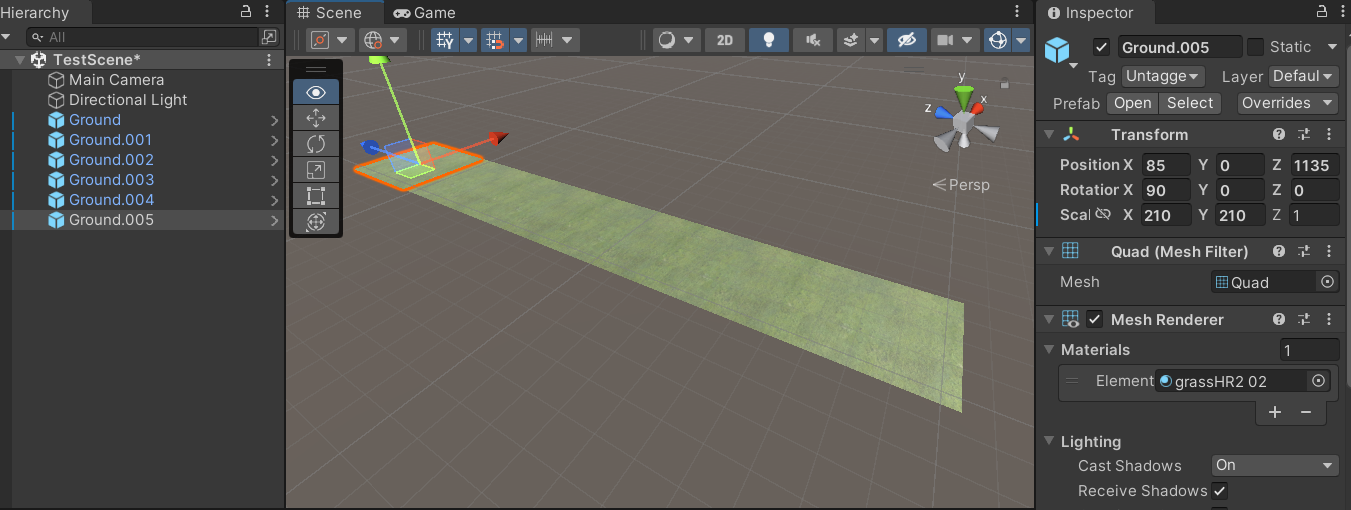
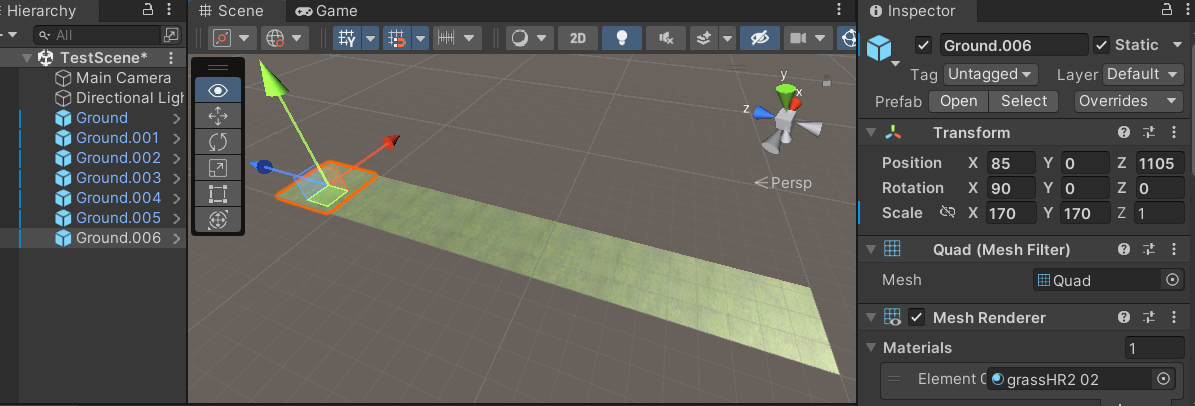
背景モデルをビューにフィットさせる方法を全面的に修正
Unityエディタ側で表示範囲を広げるのではなく、OpenGL側で距離と視野角に応じて拡大表示する.
どちらがより良いかは悩ましい...Unity側で調整するほうが簡単だったかなあ.
しかし、自動的に画面にフィットするところは便利.

diff --git a/doc/OpenGL3D_2022_11.md b/doc/OpenGL3D_2022_11.md
@@ -612,17 +612,15 @@ C#スクリプトを追加すると、Fileメニューの`Export`項目に`GameO
 
 背景画像から受けるスケール感とUnityでの作業しやすさを考慮した結果、今回はタイルサイズを「10x10m」とします。これは「3.2ピクセル=1メートル」ということです。
 
-また、2Dタイルマップの大きさは17x110タイルなので、3Dマップの範囲は170x1100mとなります。ただし、3Dではカメラの視野角を考える必要があります。そこで、前後左右に20m広げて(-20,-20)～(190, 1120)とします。
-
-こうして、今回作成するレベルの定義は次のように決まりました。
+また、2Dタイルマップの大きさは17x110タイルなので、3Dマップの範囲は170x1100mとなります。というわけで、今回作成するレベルの定義は次のように決まりました。
 
 >* タイルサイズ: 10x10m
 >* 縮尺: 3.2ピクセル = 1メートル
->* マップの範囲: (-20,-20)～(190, 1120)
+>* マップサイズ: 170x1100m
 
-それでは、レベルを作っていきましょう。とりあえず、マップ全体を埋める平面を配置します。「GameObject→3D Object→Quad」を選択して、平面のゲームオブジェクトを追加してください。ゲームオブジェクトの名前は`Ground`としてください。
+それではレベルを作っていきましょう。とりあえず、マップ全体を埋める平面を配置します。メニューから「GameObject → 3D Object → Quad」を選択して、平面のゲームオブジェクトを追加してください。
 
-シーンにQuadを配置したら、インスペクターで`Rotation`の`X`に`90`を指定してQuad(クアッド)を水平にしてください。
+シーンにQuad(クアッド)を配置したら、ゲームオブジェクトの名前を`Ground`に変更してください。また、Quadは垂直に配置されます。水平にしたいので、インスペクターで`Rotation`の`X`に`90`を指定してください。
 
 次に、`Dstroyed_city_FREE/Textures`フォルダにある`grassHR2 02.jpg`を、Quadゲームオブジェクトにドラッグ&ドロップしてください。これでQuadにテクスチャが設定されます。
 
@@ -647,29 +645,29 @@ C#スクリプトを追加すると、Fileメニューの`Export`項目に`GameO
 <code>Ground</code>ゲームオブジェクトをOBJファイルに変換し、OpenGLプロジェクトの<code>Res/Model</code>フォルダに保存しなさい。
 </pre>
 
-それでは、`Ground`ゲームオブジェクトをマップに敷き詰めましょう。といっても、最初の大きさのままで敷き詰めるには膨大な枚数が必要になってしまいます。
+それでは、`Ground`ゲームオブジェクトをマップに敷き詰めましょう。といっても、最初の大きさのままで敷き詰めるには膨大な枚数が必要になってしまいます。そこで、少ない枚数で全体をカバーできるように大きさを変更します。
 
-そこで、少ない枚数で全体をカバーできるように大きさを変更します。`Scale`を(210, 210, 1)に設定してください。次に座標を移動します。`Position`を(85, 0, 85)に設定してください。これで1枚目の地面を敷くことができました。
+X軸方向のマップサイズは170なので、`Ground`ゲームオブジェクトの`Scale`を(170, 170, 1)に設定してください。次に、`Position`を(85, 0, 85)に設定してください。これで1枚目の地面を敷くことができました。
 
-拡大率を設定した結果、現在の`Ground`の大きさは210mです。-20～1120の範囲を埋めるにはあと5枚の`Ground`ゲームオブジェクトが必要です。
+しかし、マップは縦長なので、平面が1枚ではまったく足りません。Z軸方向のマップサイズは1100なので。マップ全体を埋めるには合計7枚の`Ground`ゲームオブジェクトが必要です。
 
 `Ground`ゲームオブジェクトを選択し、`Ctrl+D`キーを押してコピーしてください。すると
-`Ground (1)`のようなゲームオブジェクトが追加されます。<br>
-このゲームオブジェクトの`Position`の`Z`に`295`を設定してください。
+`Ground (1)`のようなゲームオブジェクトが追加されます。
 
+次に、このゲームオブジェクトの`Position`を(85, 0, 255)に設定してください。<br>
 これで2枚目の地面を敷くことができました。
 
 <pre class="tnmai_assignment">
 <strong>【課題07】</strong>
-<code>Ground</code>ゲームオブジェクトのコピーをあと4枚作成し、Z方向に隙間なく並べなさい。
+<code>Ground</code>ゲームオブジェクトのコピーをあと5枚作成し、Z方向に隙間なく並べなさい。
 </pre>
 
 <p align="center">
 <img src="images/11_unity_make_ground.png" width="66%" /><br>
-[6枚のGroundを敷き詰めた状態]
+[7枚のGroundを敷き詰めた状態]
 </p>
 
-次に、建物を配置します。`Destroyed_city_FREE/Prefabs`にある`wrak_budova.prefab`をシーンにドラッグ&ドロップしてください。
+続いて建物を配置します。`Destroyed_city_FREE/Prefabs`にある`wrak_budova.prefab`をシーンにドラッグ&ドロップしてください。
 
 <pre class="tnmai_assignment">
 <strong>【課題08】</strong>
@@ -680,21 +678,26 @@ C#スクリプトを追加すると、Fileメニューの`Export`項目に`GameO
 
 建物を増やしたら、`Hierarchy`ウィンドウで16個の`wrak_budova`をすべて選択してください。そして、`Position`と`Rotation`に以下の数式を設定してください。
 
-* Position X: `R(0, 17) * 10`
+* Position X: `R(15, 155)`
 * Position Y: `R(-50, -30)`
-* Position Z: `L(0, 1100)`
+* Position Z: `L(40, 1060)`
 * Rotation X: `R(-10, 10)`
 * Rotation Y: `R(0, 360)`
 * Rotation Z: `R(-10, 10)`
 
-`R()`は「範囲内のランダムな値」を設定する数式、`L()`は「範囲内の等間隔な値」を設定する数式です。これらの数式を利用すると、簡単にランダムな座標や回転を与えることができます。
+`R()`は「範囲内のランダムな値」を設定する数式、`L()`は「範囲内の等間隔な値」を設定する数式です。これらの数式を利用すると、ランダムな(または等間隔の)座標や回転を簡単に設定できます。
 
 <p align="center">
 <img src="images/11_unity_add_buildings.png" width="50%" /><br>
 [建物をランダムに配置した状態]
 </p>
 
-これで建物の配置は完了です(破壊され、人が住まなくなって数十年が経過した廃墟の街、に見えるでしょうか)。このシーンを配置ファイルに出力しましょう。メニューから`GameObject To Json`を選択すると、次のようなウィンドウが表示されます。
+>**【インスペクターで使える数式機能について】**<br>
+>以下のBLOGの2021年12月05日の記事「Unity 2021.2で強化されたインスペクターの数式機能や、複数要素選択時の線形配置機能について」が参考になるでしょう。
+>`https://qiita.com/RyotaMurohoshi`
+
+これで建物の配置は完了です(破壊され、人が住まなくなって数十年が経過した廃墟の街、に見えるでしょうか)。このシーンを配置ファイルに出力しましょう。<br>
+メニューから`GameObject To Json`を選択すると、次のようなウィンドウが表示されます。
 
 <p align="center">
 <img src="images/11_gameobject_to_json_window.png" width="25%" />
@@ -990,22 +993,20 @@ C#スクリプトを追加すると、Fileメニューの`Export`項目に`GameO
 -  renderer->mesh = engine.LoadOBJ("Res/Model/FromUnity/StarSparrow17.obj");
 -  renderer->scale = vec3(20);
 -  renderer->rotation.y = radians(180);
-+  // 背景モデルを読み込む
++  // 3Dモデル配置ファイルを読み込む
 +  auto gameObjectList = engine.LoadGameObjectMap("Res/map01.json",
-+    vec3(0, 0, -200), vec3(3.2f));
++    vec3(0), vec3(3.2f));
 
    // 敵配置データを読み込む
    enemyMap = engine.LoadTileMap("Res/map01_obj.csv");
 ```
 
-背景モデルの拡大率に`3.2f`を指定しているのは、Unityでレベルを作成したとき、タイルサイズは「10x10m」、縮尺は「3.2ピクセル=1メートル」としたからです。これによって、配置データのサイズをゲーム内のサイズと一致させています。
+背景モデルの拡大率に`3.2f`を指定しているのは、縮尺を「3.2ピクセル=1メートル」と決めたからです。これによって、配置データのサイズをゲーム内のサイズと一致させています。
 
-また、自機などの3DモデルはZ座標`0`に配置されます。ここで、背景モデルを同じZ座標に表示すると、自機が背景に埋まってしまいます。そこで、背景モデルが自機より下に表示されるように、Z座標を`-200`しています。
-
-プログラムが書けたらビルドして実行してください。3Dの背景が表示されていたら成功です。
+プログラムが書けたらビルドして実行してください。背景が表示されていたら成功です。
 
 <p align="center">
-<img src="images/11_result_3.jpg" width="45%" />
+<img src="images/11_result_6.jpg" width="45%" />
 </p>
 
 ### 2.6 2Dと3Dの描画順を調整する
@@ -1100,6 +1101,7 @@ C#スクリプトを追加すると、Fileメニューの`Export`項目に`GameO
 次に、背景をスクロールさせます。スクロールさせる方法はいくつか考えられますが、今回は「スクロール座標オブジェクト」を用意し、それを「スクロールコンポーネント」が参照する方法を使うことにします。
 
 最初に「スクロール座標オブジェクト」を用意します。これは単純な`float`値ですが、複数のコンポーネントから参照されることを考慮してスマートポインタにします。
+
 `MainGameScene.h`を開き、次のプログラムを追加してください。
 
 ```diff
@@ -1150,10 +1152,10 @@ C#スクリプトを追加すると、Fileメニューの`Export`項目に`GameO
 他のコードで使う予定がないので、`BgScroll`(ビージー・スクロール)コンポーネントは
 `MainGameScene.cpp`に定義しています。ほかのコードでも使いたくなったら、そのときに専用のヘッダファイルに分離するとよいでしょう。
 
-それでは、スクロール座標オブジェクトを作成し、背景オブジェクトにスクロールコンポーネントを追加しましょう。`Initialize`メンバ関数にある「背景モデルを読み込む」プログラムの下に、次のプログラムを追加してください。
+それでは、スクロール座標オブジェクトを作成し、背景オブジェクトにスクロールコンポーネントを追加しましょう。`Initialize`メンバ関数にある「3Dモデル配置ファイルを読み込む」プログラムの下に、次のプログラムを追加してください。
 
 ```diff
-   // 背景モデルを読み込む
+   // 3Dモデル配置ファイルを読み込む
    auto gameObjectList = engine.LoadGameObjectMap("Res/map01.json",
      vec3(0, 0, -200), vec3(3.2f));
 +
@@ -1198,18 +1200,127 @@ C#スクリプトを追加すると、Fileメニューの`Export`項目に`GameO
 <img src="images/11_result_4.jpg" width="45%" />
 </p>
 
+### 2.8 背景の表示座標を調整する
+
+背景をスクロールさせると、自機や敵が建物に遮られて見づらいことに気づくと思います。これは、背景の座標が自機や敵と近すぎるからです。そこで、背景を少し遠くに配置します。<br>
+3Dモデル配置ファイルを読み込むプログラムを、次のように変更してください。
+
+```diff
+   // 3Dモデル配置ファイルを読み込む
+   auto gameObjectList = engine.LoadGameObjectMap("Res/map01.json",
+-    vec3(0), vec3(3.2f));
++    vec3(0, 0, -300), vec3(3.2f));
+
+   // 敵配置データを読み込む
+   enemyMap = engine.LoadTileMap("Res/map01_obj.csv");
+```
+
+`Destroyed City FREE`アセットの建物の高さは約100mですが、少しだけ地面に埋まるように配置したため、実際の地面から高さは約80mです。縮尺(3.2ピクセル=1メートル)を考慮すると、OpenGLにおける高さは256になります。
+
+そのため、背景をZ軸方向に-300ほど移動させれば、自機や敵と重ならなくなるはずです。
+
+プログラムが書けたらビルドして実行してください。背景が遠くなり、自機や敵が建物の上に表示されていたら成功です。
+
+<p align="center">
+<img src="images/11_result_7.jpg" width="45%" />
+</p>
+
+自機や敵が建物に重なることはなくなりましたが、背景の外側が見えてしまっています。3Dではカメラの視野角を考える必要があるのに、なにも対策をしていないからです。
+
+背景をカメラから遠くに置いた状態で、背景がちょうど画面全体に表示されるようにするには、背景モデルに「原点からの距離に応じた拡大率」を乗算します。
+
+`Engine.cpp`を開き、`LoadGameObjectMap`メンバ関数の定義を次のように変更してください。
+
+```diff
+       continue;
+     }
+
+     // 座標の拡大縮小と平行移動を適用
++    const float cameraScale = 1 - translate.z / cameraObject->z;
+-    t = t * (scale * cameraScale) + translate;
+-    s *= (scale * cameraScale);
++    t = t * (scale * cameraScale) + translate;
++    s *= (scale * cameraScale);
+
++    // 原点からの距離に応じて左下座標を補正
++    const vec2 zoomOffset(GetViewSize() * (cameraScale - 1) * 0.5f);
++    t.x -= zoomOffset.x;
++    t.y -= zoomOffset.y;
+
+     // ゲームオブジェクトを作成
+     auto gameObject = Create<GameObject>(meshName);
+```
+
+プログラムが書けたらビルドして実行してください。背景が画面全体に表示されていたら成功です。
+
+<p align="center">
+<img src="images/11_result_8.jpg" width="45%" />
+</p>
+
+うまくいっているように見えますが、よく見ると一部の建物の天井付近が、自機や敵がより手前に表示されています。原点からの距離に応じた拡大率を追加したことで、建物の高さも拡大されているからです。
+
+現在はカメラのZ座標を500としていますが、この値では視野角が広すぎるため、「背景を画面いっぱいに表示する」と「自機や敵を建物の上に表示する」の両方を満たすことができません。
+
+そこで、カメラをより遠くに配置して、視野角を<ruby>狭<rt>せば</rt></ruby>めます。以下の図は、カメラのZ座標を1000、背景のZ座標を-400にしたときの視野を示しています。
+
+<p align="center">
+<img src="images/11_view_range.png" width="33%" />
+</p>
+
+自機や敵の3Dモデルは`Z=0`のラインに配置されます。<br>
+X軸方向の表示範囲は`17タイルx32ピクセル=544`なので、半径は272となります。
+
+`Z=-400`のラインは背景モデルを配置する位置です。図形の相似から、サイズを約1.4倍すれば、`Z=0`に配置したときと同じ大きさに見えることが分かります。
+
+この設定では、表示上の建物の最大の高さは`80*3.2*1.4=358.4`となります。この値は400より小さいため、建物の天井が自機や敵より低い位置に表示されるはずです。
+
+それでは、カメラの設定を変更しましょう。`MainGameScene.cpp`を開き、`Initialize`メンバ関数にある「カメラパラメータを設定」するプログラムを、次のように変更してください。
+
+```diff
+   auto cameraObject = engine.GetMainCameraObject();
+   cameraObject->x = viewSize.x / 2;
+   cameraObject->y = viewSize.y / 2;
+-  cameraObject->z = 500;
++  cameraObject->z = 1000;
+   cameraObject->rotation[0] = 0;
+
+   // ビューポートを設定
+```
+
+また、現在のカメラのニア平面は1、ファー平面は1000になっています。カメラを遠くに配置したことと、背景を奥にずらしたことで、3Dモデルがファー平面より遠くに配置されるため、画面に映りません。
+
+3Dモデルが表示されるようにするには、ニアとファーの値を変更します。アスペクト比を計算するプログラムの下に、次のプログラムを追加してください。
+
+```diff
+   // アスペクト比を計算
+   cameraComponent->aspect = viewSize.y / viewSize.x;
++
++  // 3Dモデルの配置座標を、ニア平面とファー平面のあいだに入れる
++  cameraComponent->near = 500;
++  cameraComponent->far = 2000;
+
+   // 自機を追加
+   player = engine.Create<GameObject>(
+```
+
+プログラムが書けたらビルドして実行してください。背景モデルが画面全体に表示され、なおかつ自機や敵が、常に建物の天井より上に表示されていたら成功です。
+
+<p align="center">
+<img src="images/11_result_3.jpg" width="45%" />
+</p>
+
 <pre class="tnmai_assignment">
 <strong>【課題09】</strong>
 アセットを追加してシーンに配置し、廃墟の街の見た目を改善しなさい。改善したら<code>map01.json</code>を更新し、動作確認をしなさい。
 </pre>
 
-### 2.8 環境光を追加する
+### 2.9 環境光を追加する
 
 現在、3Dモデルは平行光源で照らされており、その明るさは「ランバート反射」として求めています。そして、ランバート反射の性質上、平行光源に裏を向けている面には光が当たりません。当然、裏向きの面は真っ黒で表示されます。
 
-ところが、現実世界に目を向けてみると、太陽に裏を向けている部分でも、真っ黒にはなりません。なぜなら、裏を向いていても、周囲の物体で反射したり大気で散乱した光が届いているからです。
+ところが、現実世界に目を向けてみると、太陽に裏を向けている部分でも、真っ黒にはなりません。なぜなら、裏面にも周囲の物体で反射したり大気で散乱した光が届いているからです。
 
-このような、間接的に届く光の計算は「大域照明(グローバル・イルミネーション)」と呼ばれています。グローバルイルミネーションを再現できれば、現実と同様の明るさが得られることになります。
+このような、間接的に届く光の計算を「大域照明(グローバル・イルミネーション)」といいます。グローバルイルミネーションを<ruby>模倣<rt>もほう</rt></ruby>できれば、現実と同様の明るさを再現できます。
 
 <p align="center">
 <img src="images/Radiosity_Comparison.jpg" width="50%" /><br>
@@ -1217,7 +1328,7 @@ C#スクリプトを追加すると、Fileメニューの`Export`項目に`GameO
 https://commons.wikimedia.org/wiki/File:Radiosity_Comparison.jpg
 </p>
 
-しかし、グローバルイルミネーションは非常に複雑な現象です。最近でこそ「ハードウェア・レイ・トレーシング」という機能と研究の成果により、ある程度リアルタイムに再現できるようになりましたが、難しい問題であることに変わりはありません。
+しかし、グローバルイルミネーションは非常に複雑な現象です。最近でこそ、研究の成果と「ハードウェア・レイ・トレーシング」という機能の登場により、ある程度リアルタイムに再現できるようになりましたが、難しい問題であることに変わりはありません。
 
 そこで、今回はもっとも単純なグローバルイルミネーションである「環境光(アンビエント・ライト)」を採用します。
 
@@ -1225,7 +1336,7 @@ https://commons.wikimedia.org/wiki/File:Radiosity_Comparison.jpg
 
 もちろん、実際には柱の根元や天井はより赤く、へこんだ角の部分は暗くなるなど、場所によって間接光の色や強さは異なります。しかし、「環境光」ではそれらの詳細をすべて無視します。
 
-細かい部分で違いがあるとしても、間接光の主成分が「天井、壁、柱の白と床の赤が混ざった色」であることは間違いないからです。
+細かい部分で違いがあるとしても、間接光の主成分が「天井・壁・柱の白と、床の赤が混ざった色」であることは間違いないからです。
 
 まずシェーダに環境光用のユニフォーム変数を追加します。変数名は`ambientLight`(アンビエント・ライト)とします。`standard_3D.frag`を開き、次のプログラムを追加してください。
 
